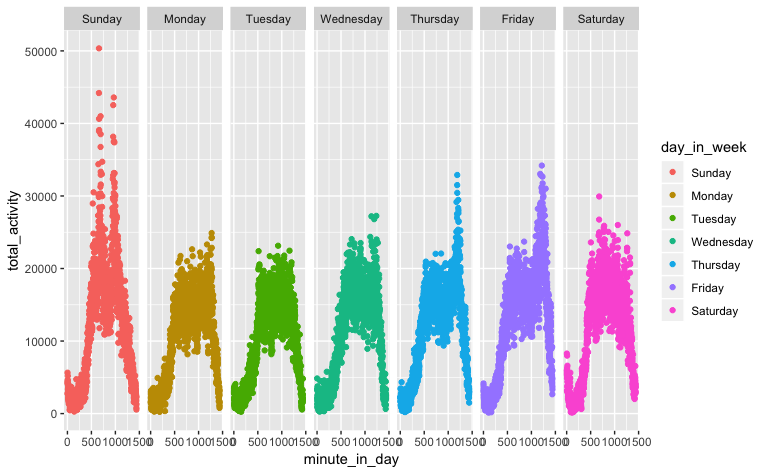
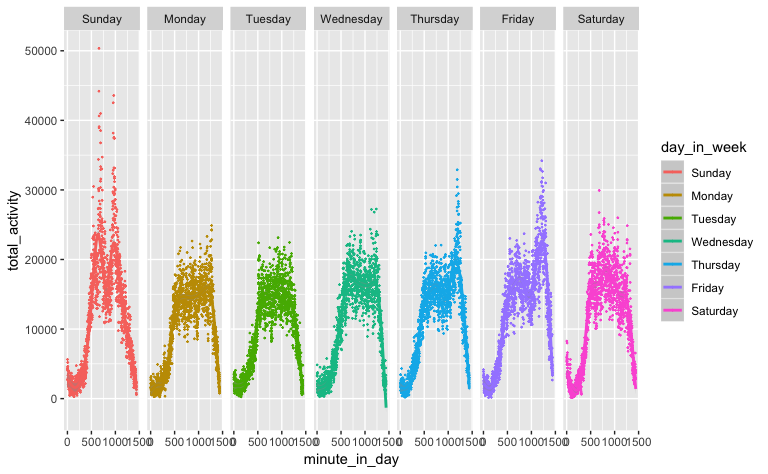
get statistics parts

diff --git a/p8105_mtp_zf2213.md b/p8105_mtp_zf2213.md
@@ -54,30 +54,61 @@ activity_day_total <- activity %>%
     group_by(day, day_in_week, week) %>% 
   summarize(day_total = sum(counts))
 
-# day total counts over time
-activity_day_total %>%
-    ggplot(aes(x = day, y = day_total)) +
-      geom_point(aes(color = day_in_week)) +
-      geom_smooth(method = lm)
+# the distribution of total activity in a day looks as this. However, there are some outliers that should not include in 
+
+library(patchwork)
+
+activity_day_total %>% 
+  group_by(outliers = day_total > 100000) %>%
+    ggplot(aes(x = day_total)) +
+      geom_density() +
+      coord_flip()
 ```
 
 <img src="p8105_mtp_zf2213_files/figure-gfm/unnamed-chunk-1-1.png" width="100%" />
 
 ``` r
-# distribution of day total in every day in week
+# day total counts over time
 activity_day_total %>%
-    ggplot(aes(x = day_in_week, y = day_total)) +
-      geom_boxplot()
+    group_by(outliers = day_total > 100000) %>%
+    ggplot(aes(x = day, y = day_total, shape = outliers)) +
+      geom_point(size = 2) +
+      geom_smooth(method = "lm")
 ```
 
 <img src="p8105_mtp_zf2213_files/figure-gfm/unnamed-chunk-1-2.png" width="100%" />
 
 ``` r
+summary(lm(day ~ day_total, data = activity_day_total))
+```
+
+    ## 
+    ## Call:
+    ## lm(formula = day ~ day_total, data = activity_day_total)
+    ## 
+    ## Residuals:
+    ##      Min       1Q   Median       3Q      Max 
+    ## -182.423  -72.111   -0.134   75.795  192.610 
+    ## 
+    ## Coefficients:
+    ##              Estimate Std. Error t value Pr(>|t|)    
+    ## (Intercept) 8.744e+01  1.220e+01   7.165 5.18e-12 ***
+    ## day_total   2.241e-04  3.229e-05   6.941 2.10e-11 ***
+    ## ---
+    ## Signif. codes:  0 '***' 0.001 '**' 0.01 '*' 0.05 '.' 0.1 ' ' 1
+    ## 
+    ## Residual standard error: 88.94 on 327 degrees of freedom
+    ## Multiple R-squared:  0.1284, Adjusted R-squared:  0.1258 
+    ## F-statistic: 48.18 on 1 and 327 DF,  p-value: 2.097e-11
+
+``` r
 # across week, show the distribution of activities for each day in a week
 activity_day_total %>%
-    ggplot(aes(y = day_total, x = day, color = day_in_week)) +
-      geom_point() +
-      geom_smooth() +
+    filter(day_total > 100000) %>% 
+    ggplot(aes(y = day_total, x = day, group = day_in_week)) +
+      geom_boxplot() +
+      geom_point(aes(color = day_in_week)) +
+      geom_smooth(alpha = 0.3) +
       facet_grid(. ~ day_in_week)
 ```
 
@@ -114,8 +145,11 @@ activity %>%
     group_by(minute_in_day, day_in_week) %>%
     summarize(total_activity = sum(counts)) %>%
     ggplot(aes(x = minute_in_day, y = total_activity, color = day_in_week)) +
-      geom_point()
+      geom_point(size = 0.6) +
+      geom_smooth()
 ```
+
+    ## `geom_smooth()` using method = 'gam' and formula 'y ~ s(x, bs = "cs")'
 
 <img src="p8105_mtp_zf2213_files/figure-gfm/unnamed-chunk-3-1.png" width="100%" />
 
@@ -125,9 +159,12 @@ activity %>%
     group_by(minute_in_day, day_in_week) %>%
     summarize(total_activity = sum(counts)) %>%
     ggplot(aes(x = minute_in_day, y = total_activity, color = day_in_week)) +
-      geom_point() +
+      geom_point(size = 0.2) +
+      geom_smooth() +
       facet_grid(. ~ day_in_week) 
 ```
+
+    ## `geom_smooth()` using method = 'gam' and formula 'y ~ s(x, bs = "cs")'
 
 <img src="p8105_mtp_zf2213_files/figure-gfm/unnamed-chunk-3-2.png" width="100%" />
 
@@ -136,7 +173,7 @@ activity %>%
 ``` r
 # some feature days
 activity %>% 
-  filter(day %in% c(0, 55, 92, 107:108, 185, 243, 244, 300)) %>%
+  filter(day %in% c(0, 49, 55, 92, 107:108, 185, 243, 244, 300)) %>%
     ggplot(aes(y = log10(counts), x = minute_in_day, color = as.factor(day))) +
       geom_point(size = 0.5) +
       facet_grid(day ~ .)
